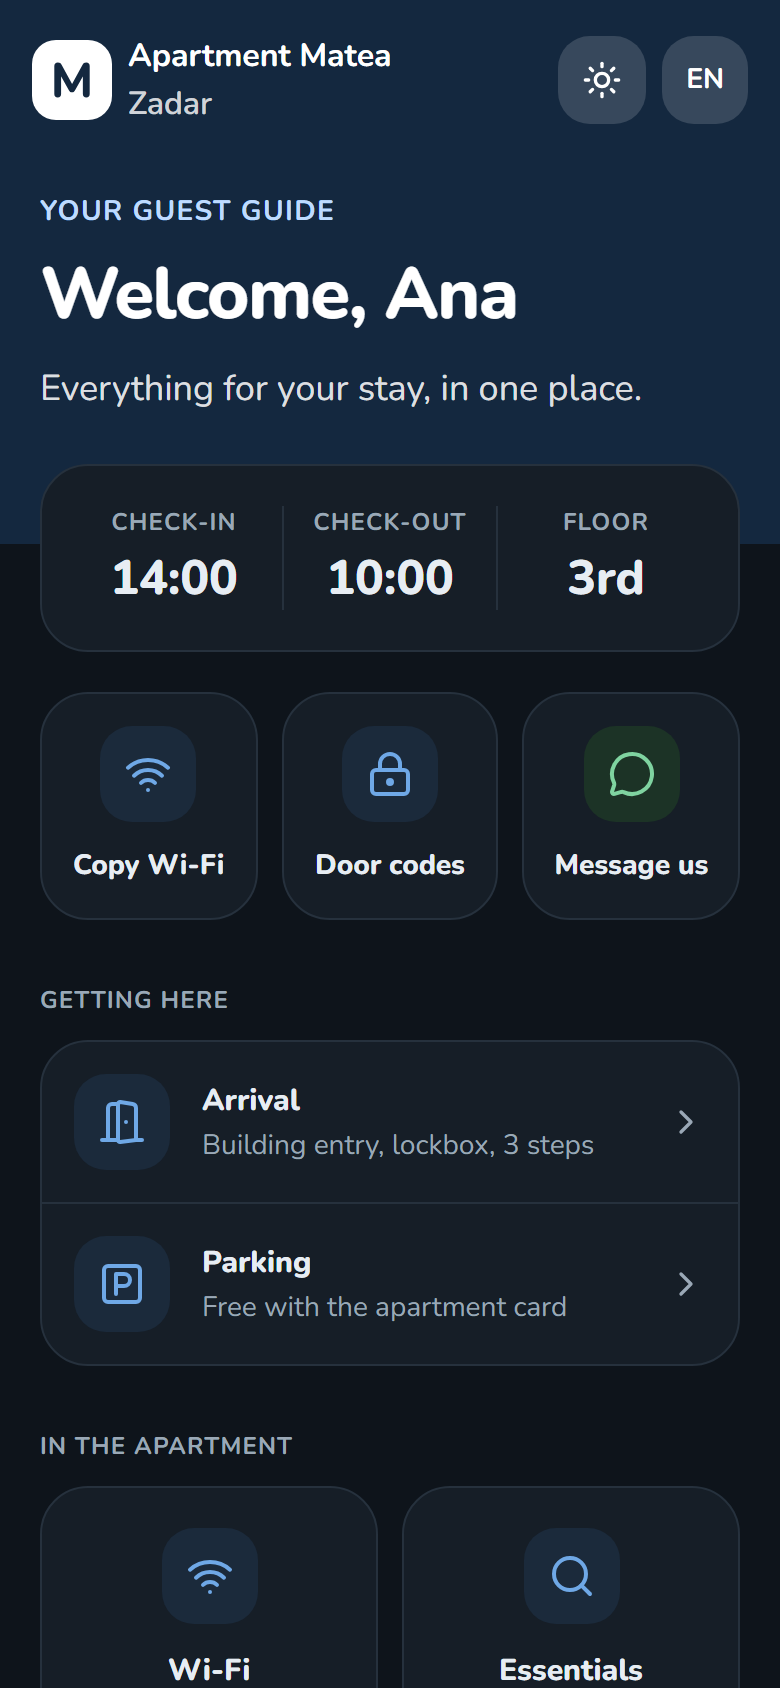
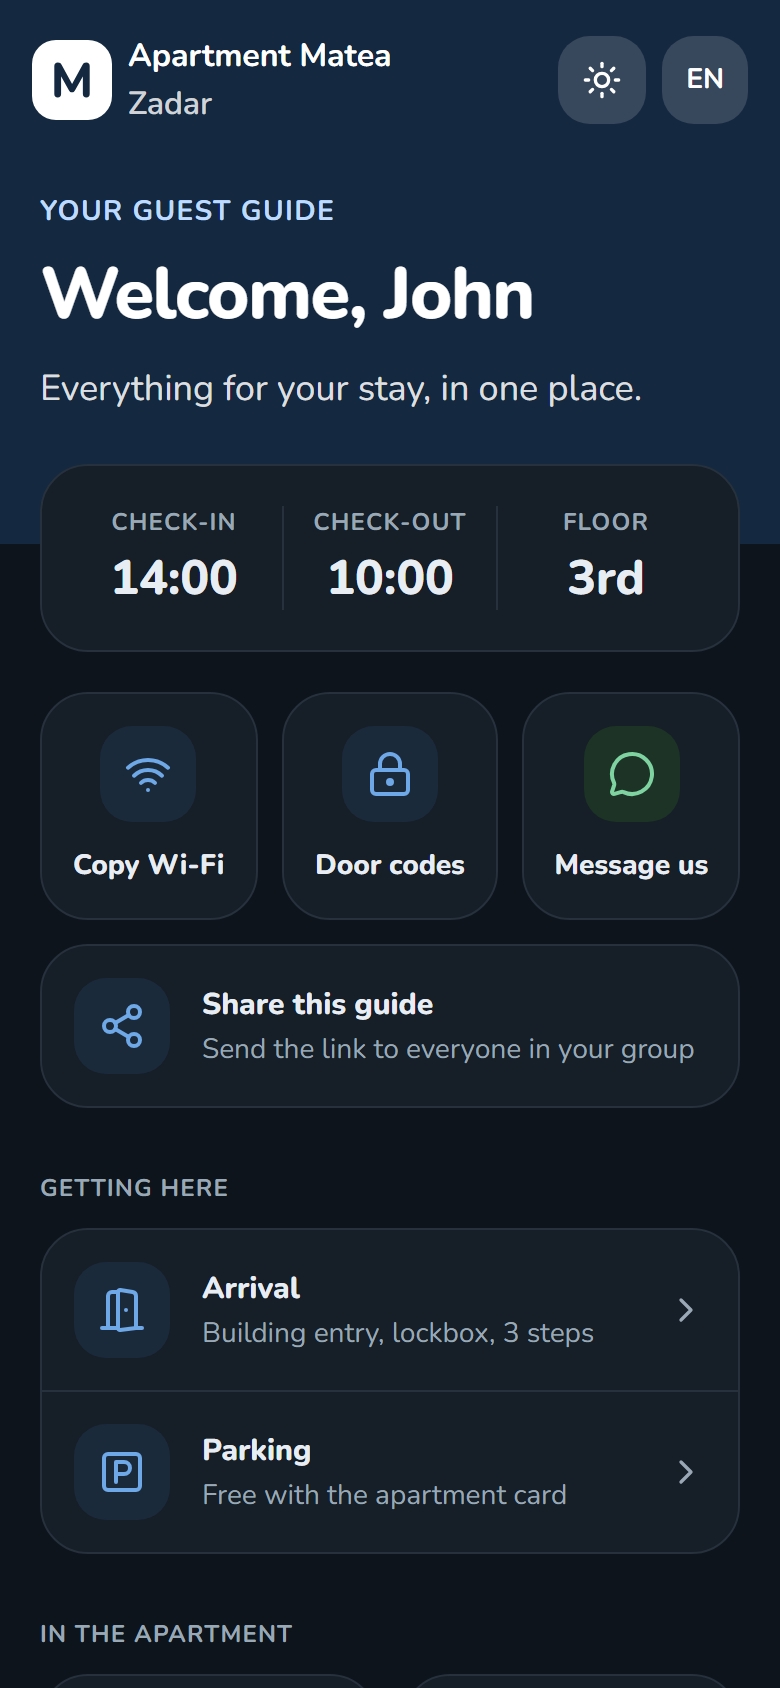
docs: add share button and link preview to readme

diff --git a/README.md b/README.md
@@ -41,6 +41,8 @@ Without a token, the site shows the no-access page.
 - Private access with personal guest links, no account needed
 - Thank-you page once a reservation is deactivated
 - Multilingual guide with a language picker that remembers the guest's choice (English and Croatian so far)
+- Share button that sends the guide link to the rest of the group or copies it
+- Link preview with a photo, title and description when the link is shared
 
 ## Guest access
 
@@ -94,7 +96,9 @@ src/
 │   ├── apple-icon.png
 │   ├── globals.css
 │   ├── icon.svg
-│   └── layout.tsx
+│   ├── layout.tsx
+│   ├── opengraph-image.alt.txt
+│   └── opengraph-image.jpg
 ├── assets/
 ├── components/
 ├── i18n/
